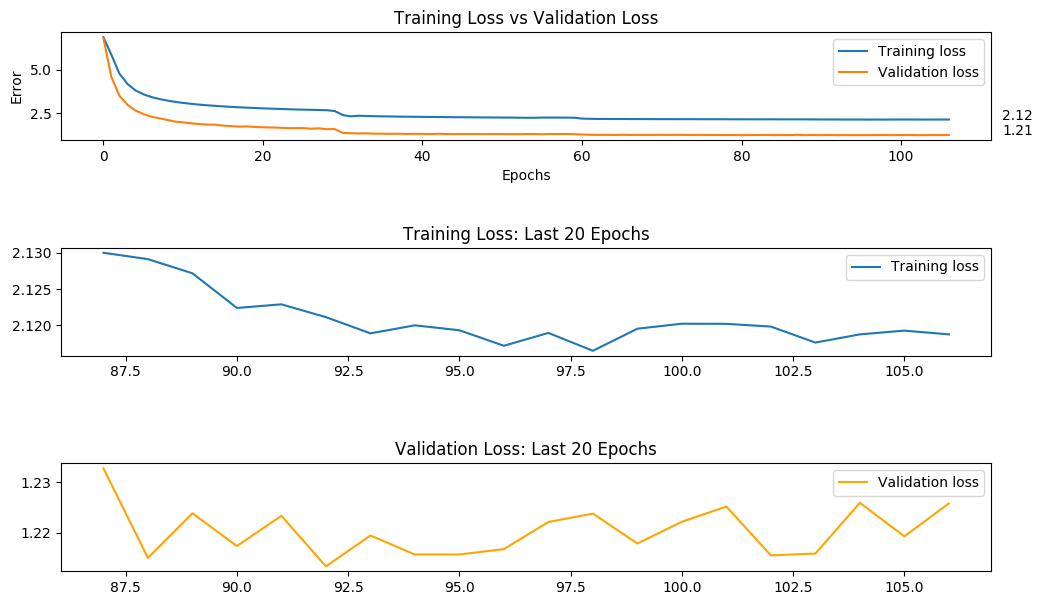
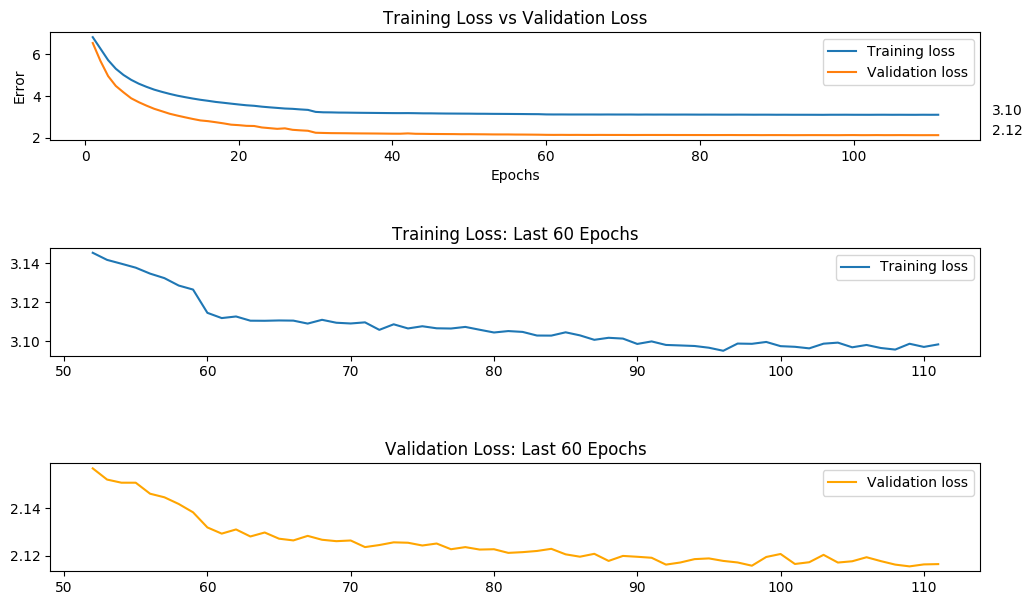
Added command line arguments

diff --git a/network_plotter.py b/network_plotter.py
@@ -15,10 +15,16 @@ parser.add_argument('--csv-path', dest='csv_path', default='csv', type=str,
                     help='path to csv(s)')
 parser.add_argument('--filename', default="summary.csv", type=str,
                     help="Filename of the complete CSV")
+parser.add_argument('--epochs', default=20, type=int,
+                    help="Last N epochs to look zoom in on")
+parser.add_argument('--early-stop', default=20, dest='early_stop', type=int,
+                    help="Checks last N epochs for a decrease in loss")
 
 args = parser.parse_args()
 CWD = os.getcwd()
 CSV = args.csv_path
+last_epochs = args.epochs
+early_stop = args.early_stop
 
 def _concat_csv(all_filenames):
     print("Merging CSV files...")
@@ -72,14 +78,14 @@ def _plot_error(summary):
     p1.set_ylabel("Error")
     p1.legend(loc='upper right')
 
-    p2.set_title("Training Loss: Last 20 Epochs")
-    p2.plot(x.tail(20), loss['train_loss'].tail(20), label="Training loss")
+    p2.set_title("Training Loss: Last {} Epochs".format(last_epochs))
+    p2.plot(x.tail(last_epochs), loss['train_loss'].tail(last_epochs), label="Training loss")
     p1.set_xlabel("Epochs")
     p1.set_ylabel("Error")
     p2.legend(loc='upper right')
 
-    p3.set_title("Validation Loss: Last 20 Epochs")
-    p3.plot(x.tail(20), loss['eval_loss'].tail(20),'orange', label="Validation loss")
+    p3.set_title("Validation Loss: Last {} Epochs".format(last_epochs))
+    p3.plot(x.tail(last_epochs), loss['eval_loss'].tail(last_epochs),'orange', label="Validation loss")
     p1.set_xlabel("Epochs")
     p1.set_ylabel("Error")
     p3.legend(loc='upper right')
@@ -111,8 +117,8 @@ def _plot_accuracy(summary):
 
     print("Highest top-1 accuracy: %0.2f @ epoch: [%i/%i]" % (max_acc, max_indx,x.size))
 
-    p2.set_title("Top 1: Last 20 epochs")
-    p2.plot(x.tail(20), prec['eval_prec1'].tail(20), 'r', label="Top 1")
+    p2.set_title("Top 1: Last {} Epochs".format(last_epochs))
+    p2.plot(x.tail(last_epochs), prec['eval_prec1'].tail(last_epochs), 'r', label="Top 1")
     for var in (top1):
         p2.annotate('%0.2f, %0.2f' % (max_indx, max_acc), xy=(max_indx, max_acc), xytext=(8, 0), 
             xycoords=('axes fraction', 'data'), textcoords='offset points')
@@ -120,8 +126,8 @@ def _plot_accuracy(summary):
     p2.set_ylabel("Validation Accuracy")
     p2.legend(loc='upper right')
 
-    p3.set_title("Top 5: Last 20 epochs")
-    p3.plot(x.tail(20), prec['eval_prec5'].tail(20),'b', label="Top 5")
+    p3.set_title("Top 5: Last {} Epochs".format(last_epochs))
+    p3.plot(x.tail(last_epochs), prec['eval_prec5'].tail(last_epochs),'b', label="Top 5")
     p3.set_xlabel("Epochs")
     p3.set_ylabel("Validation Accuracy")
     p3.legend(loc='upper right')
@@ -130,7 +136,7 @@ def _plot_accuracy(summary):
     plt.savefig("Validation Accuracy")
 
 def _early_stop(summary):
-    loss = summary.tail(20)[['eval_loss']].values
+    loss = summary.tail(early_stop)[['train_loss']].values
 
     keep_training = True
 
@@ -150,7 +156,7 @@ def _early_stop(summary):
             count = count + 1
         
         # If no better local minima has been found in 20 epochs, stop training
-        if count == 20:
+        if count == early_stop:
             keep_training = False
         
     if keep_training:
